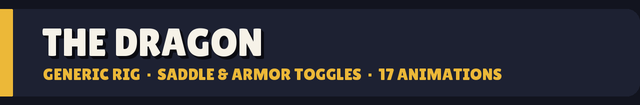
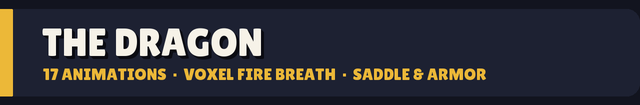
Dragon Knight itch: fire breath GIFs, art, description

Changed region(s): [[0.0625, 0.6286, 0.7812, 0.7714]]

diff --git a/dragon-knight/itch/description.html b/dragon-knight/itch/description.html
@@ -15,6 +15,8 @@
 
 <p><img src="https://jojopado.github.io/apps/dragon-knight/itch/hdr_dragon.png" alt="The Dragon"></p>
 <p>Emerald scales, gold belly plates, ivory horns and glowing amber eyes. The saddle (with harness, reins, stirrups and saddle bags) and the steel armour are separate meshes you can hide.</p>
+<p><strong>Voxel fire breath included:</strong> glowing cubes that turn from yellow to red and fade into smoke, with a warm light. The effect sits in the dragon's mouth and follows the head as it sweeps. It turns on with the same <em>Breath</em> parameter as the animation, with no scripts.</p>
+<p><img src="https://jojopado.github.io/apps/dragon-knight/itch/04_Dragon_Attacks.gif" alt="Dragon attacks and fire breath"></p>
 <p><strong>Ground:</strong> Idle, Idle_Look, Walk, Run, Roar, Sleep<br>
 <strong>Combat:</strong> Attack_Bite, Attack_Claw, Attack_Tail, Breath_Fire, Hit, Death<br>
 <strong>Flight:</strong> TakeOff, Hover, Fly, Glide, Land</p>
@@ -29,6 +31,7 @@
 <li>3 prefabs: Knight, Dragon, Dragon (Mounted)</li>
 <li>2 FBX models: skinned meshes, skeleton and animation clips</li>
 <li>3 Animator Controllers (knight, dragon, mounted knight)</li>
+<li>Voxel fire breath effect (particle prefab + warm light), already in the dragon's mouth</li>
 <li>Textures: knight 256 px, dragon 1024 px + emission (PNG, pixel art)</li>
 <li>Showcase scene and PDF documentation</li>
 </ul>
@@ -47,6 +50,5 @@
 <p><strong>Please note</strong></p>
 <ul>
 <li>No scripts are included: drive the Animator parameters from your own code.</li>
-<li>No particle effects are included (Breath_Fire is the body animation; use <code>Socket_Mouth</code> for your own fire).</li>
 <li>Unity package only (.unitypackage).</li>
 </ul>
